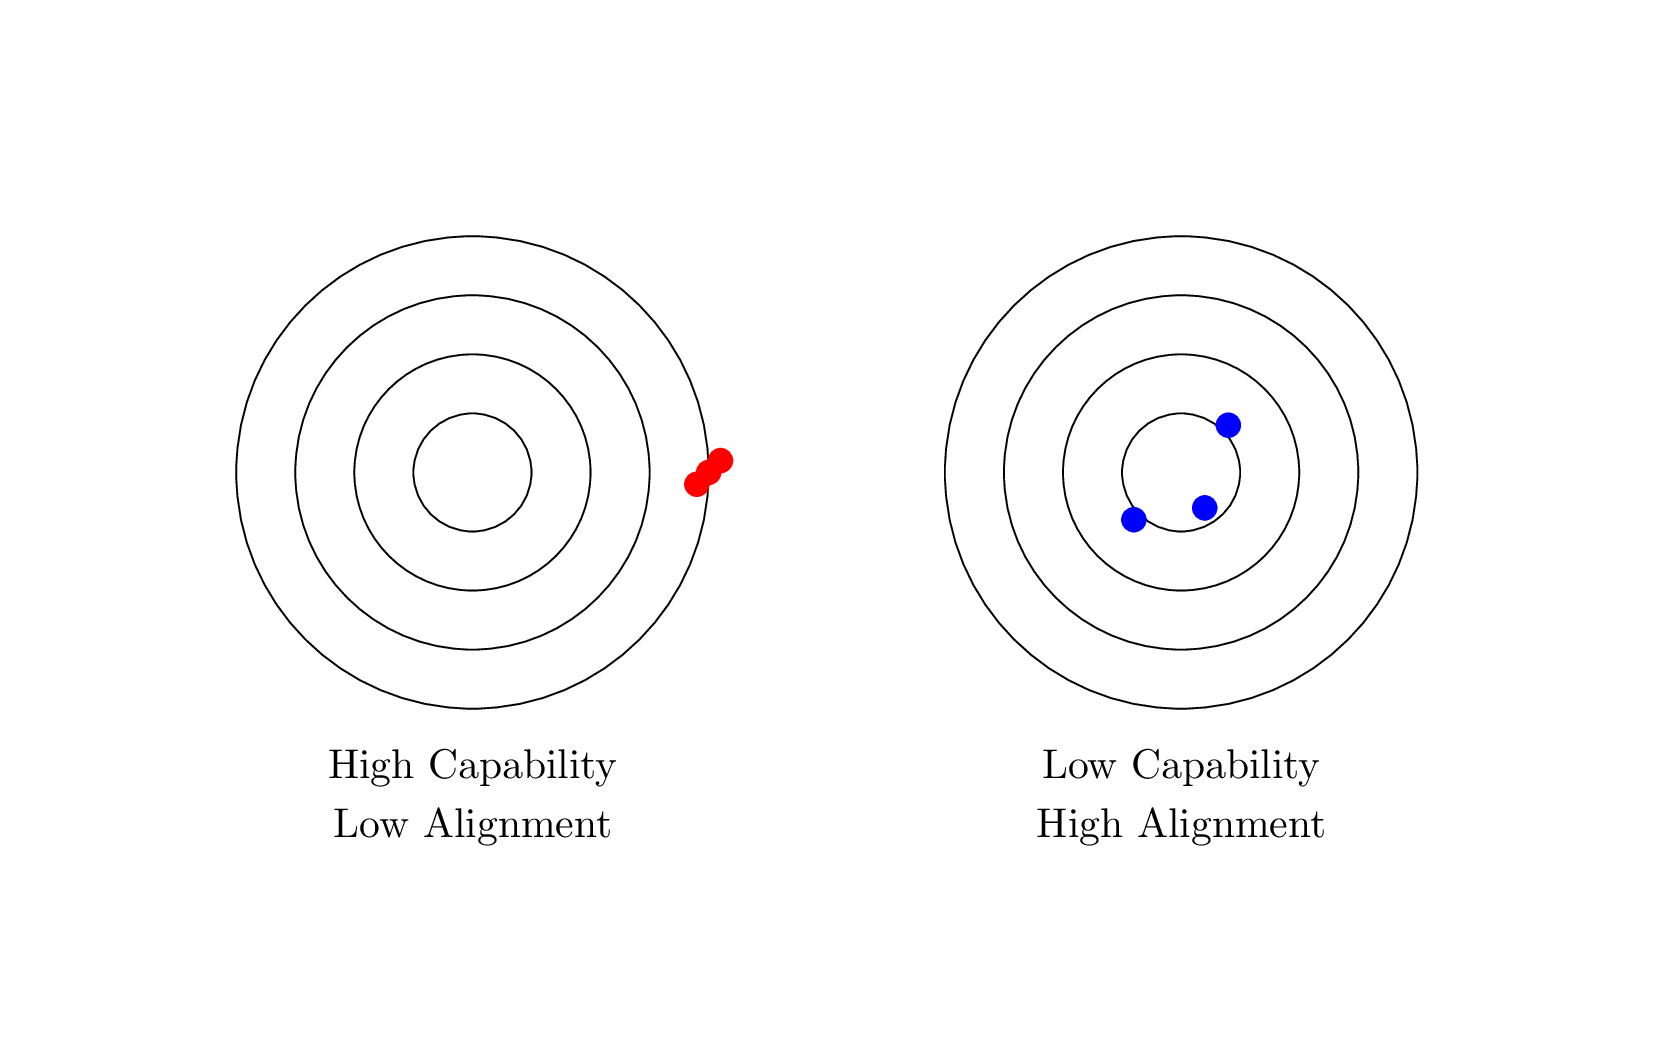
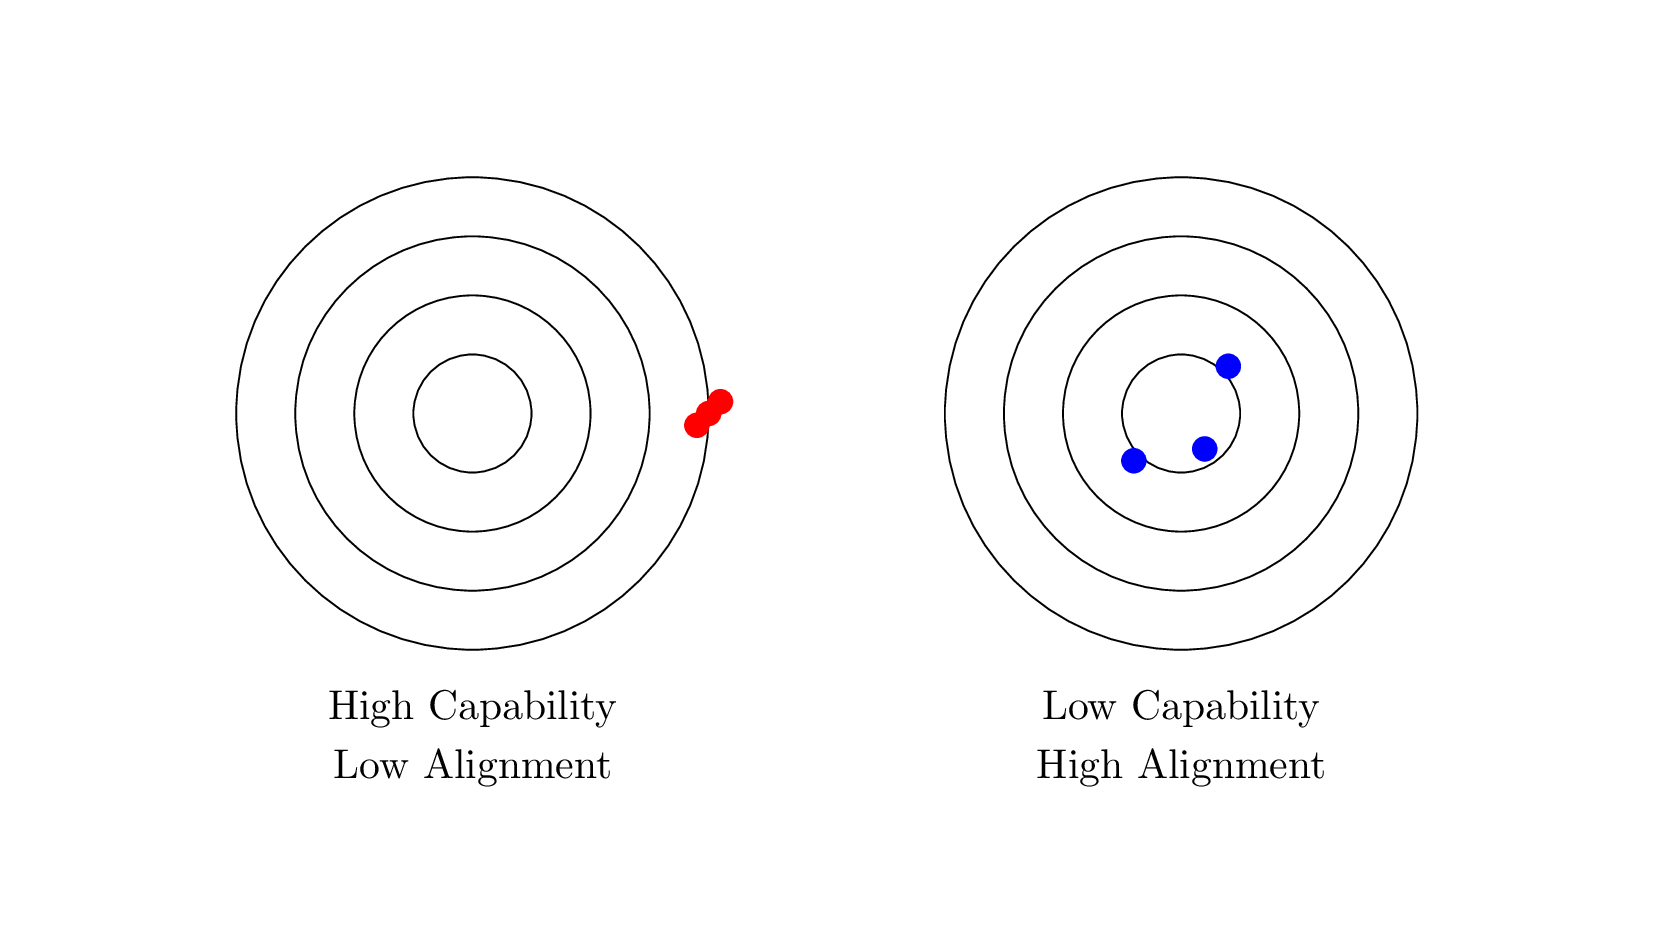
docs: update rlhf

diff --git a/book/tex/nlp_deep/rlhf/capability_vs_alignment.tex b/book/tex/nlp_deep/rlhf/capability_vs_alignment.tex
@@ -6,7 +6,7 @@
 \begin{tikzpicture}
     % white background
     \begin{scope}[on background layer]
-        \fill [white] (-3,-4) rectangle (9,3);
+        \fill [white] (-3,-3.5) rectangle (9,2.5);
     \end{scope}
 
     % draw circles

diff --git a/book/lectures/nlp_deep/rlhf.md b/book/lectures/nlp_deep/rlhf.md
@@ -54,6 +54,12 @@ Capability refers to the raw power and complexity of LLMs. LLMs can generate hig
 
 Alignment, on the other hand, refers to the extent to which the goals and values of LLMs align with those of their human users. If an LLM is not aligned with human values and preferences, it may generate responses that are harmful or malicious, even if they are highly realistic and coherent. Alignment is crucial to ensure that LLMs behave in a way that is safe, ethical, and beneficial to society.
 
+The alignment problem in Large Language Models typically could cause the following problems:
+
+- LLMs may not follow the instructions given by the user.
+- LLMs may generate responses that are harmful or malicious, even if they are highly realistic and coherent.
+- It might be difficult for users to understand the reasoning behind the LLM's responses.
+
 The "Capability vs. Alignment" framework suggests that there is a trade-off between these two dimensions of risk. Increasing the capability of LLMs may come at the expense of alignment, and vice versa. For example, if an LLM is trained on large amounts of biased data, it may generate responses that perpetuate or amplify that bias, even if it is highly capable in other respects. Conversely, if an LLM is heavily constrained to ensure alignment, it may not be able to generate high-quality responses or perform certain tasks effectively.
 
 The "Capability vs. Alignment" framework highlights the importance of balancing these two dimensions of risk when developing and deploying LLMs. It suggests that researchers and developers should pay close attention to the alignment of LLMs with human values and preferences, and should take steps to mitigate the potential risks associated with their capabilities. This includes developing robust mechanisms for ensuring safety, transparency, and accountability, and engaging with a broad range of stakeholders to ensure that LLMs are aligned with the needs and concerns of society as a whole.
